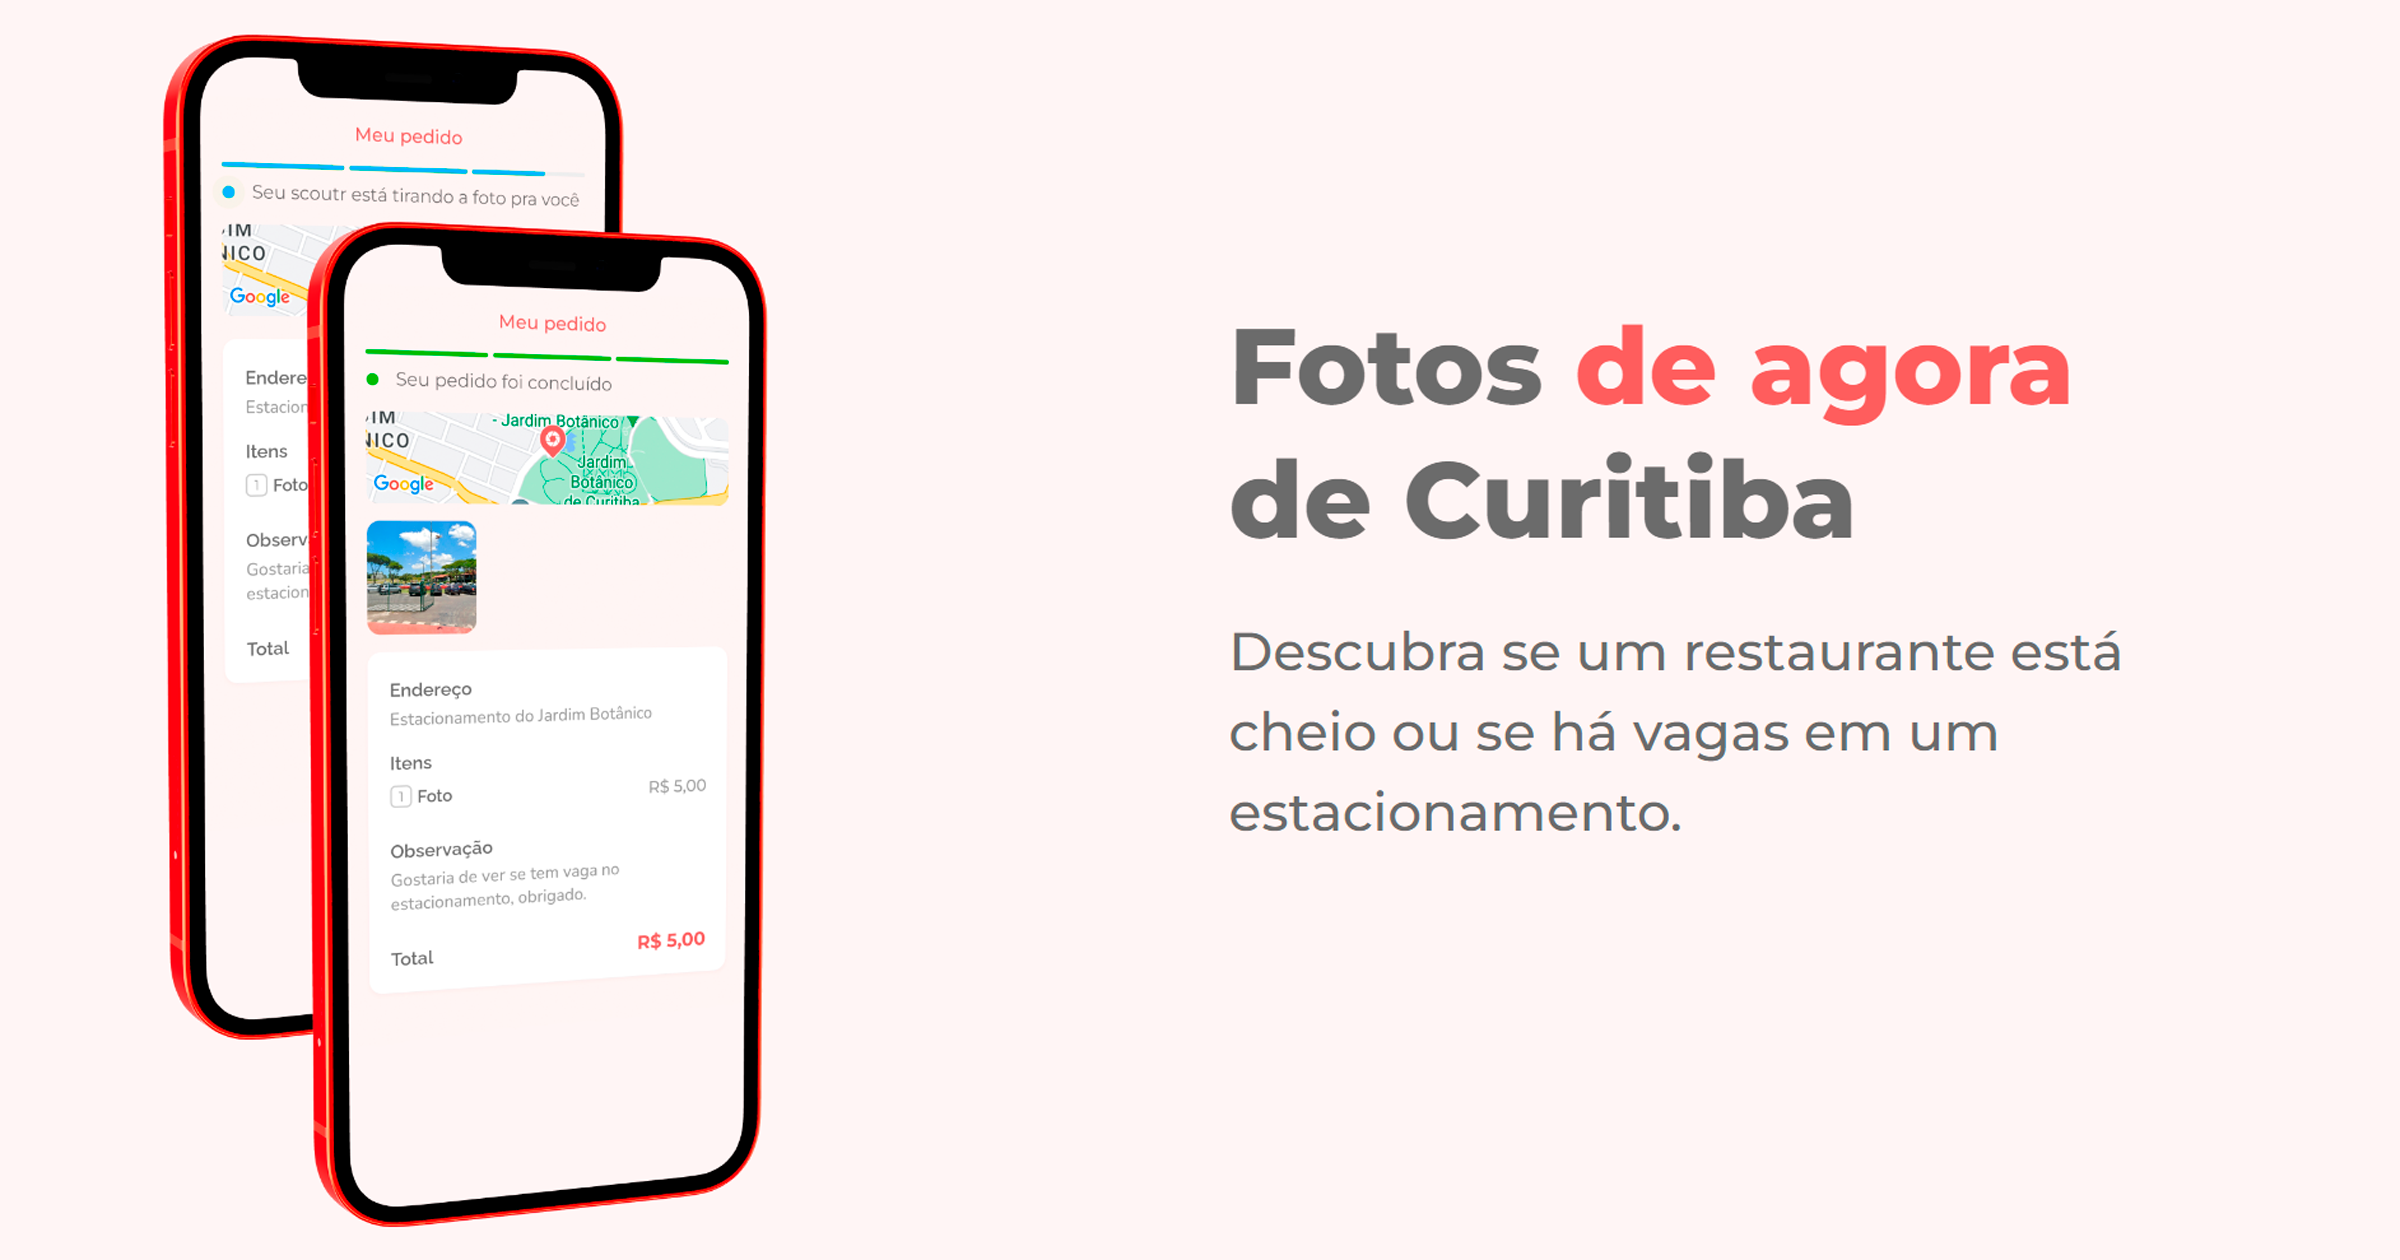
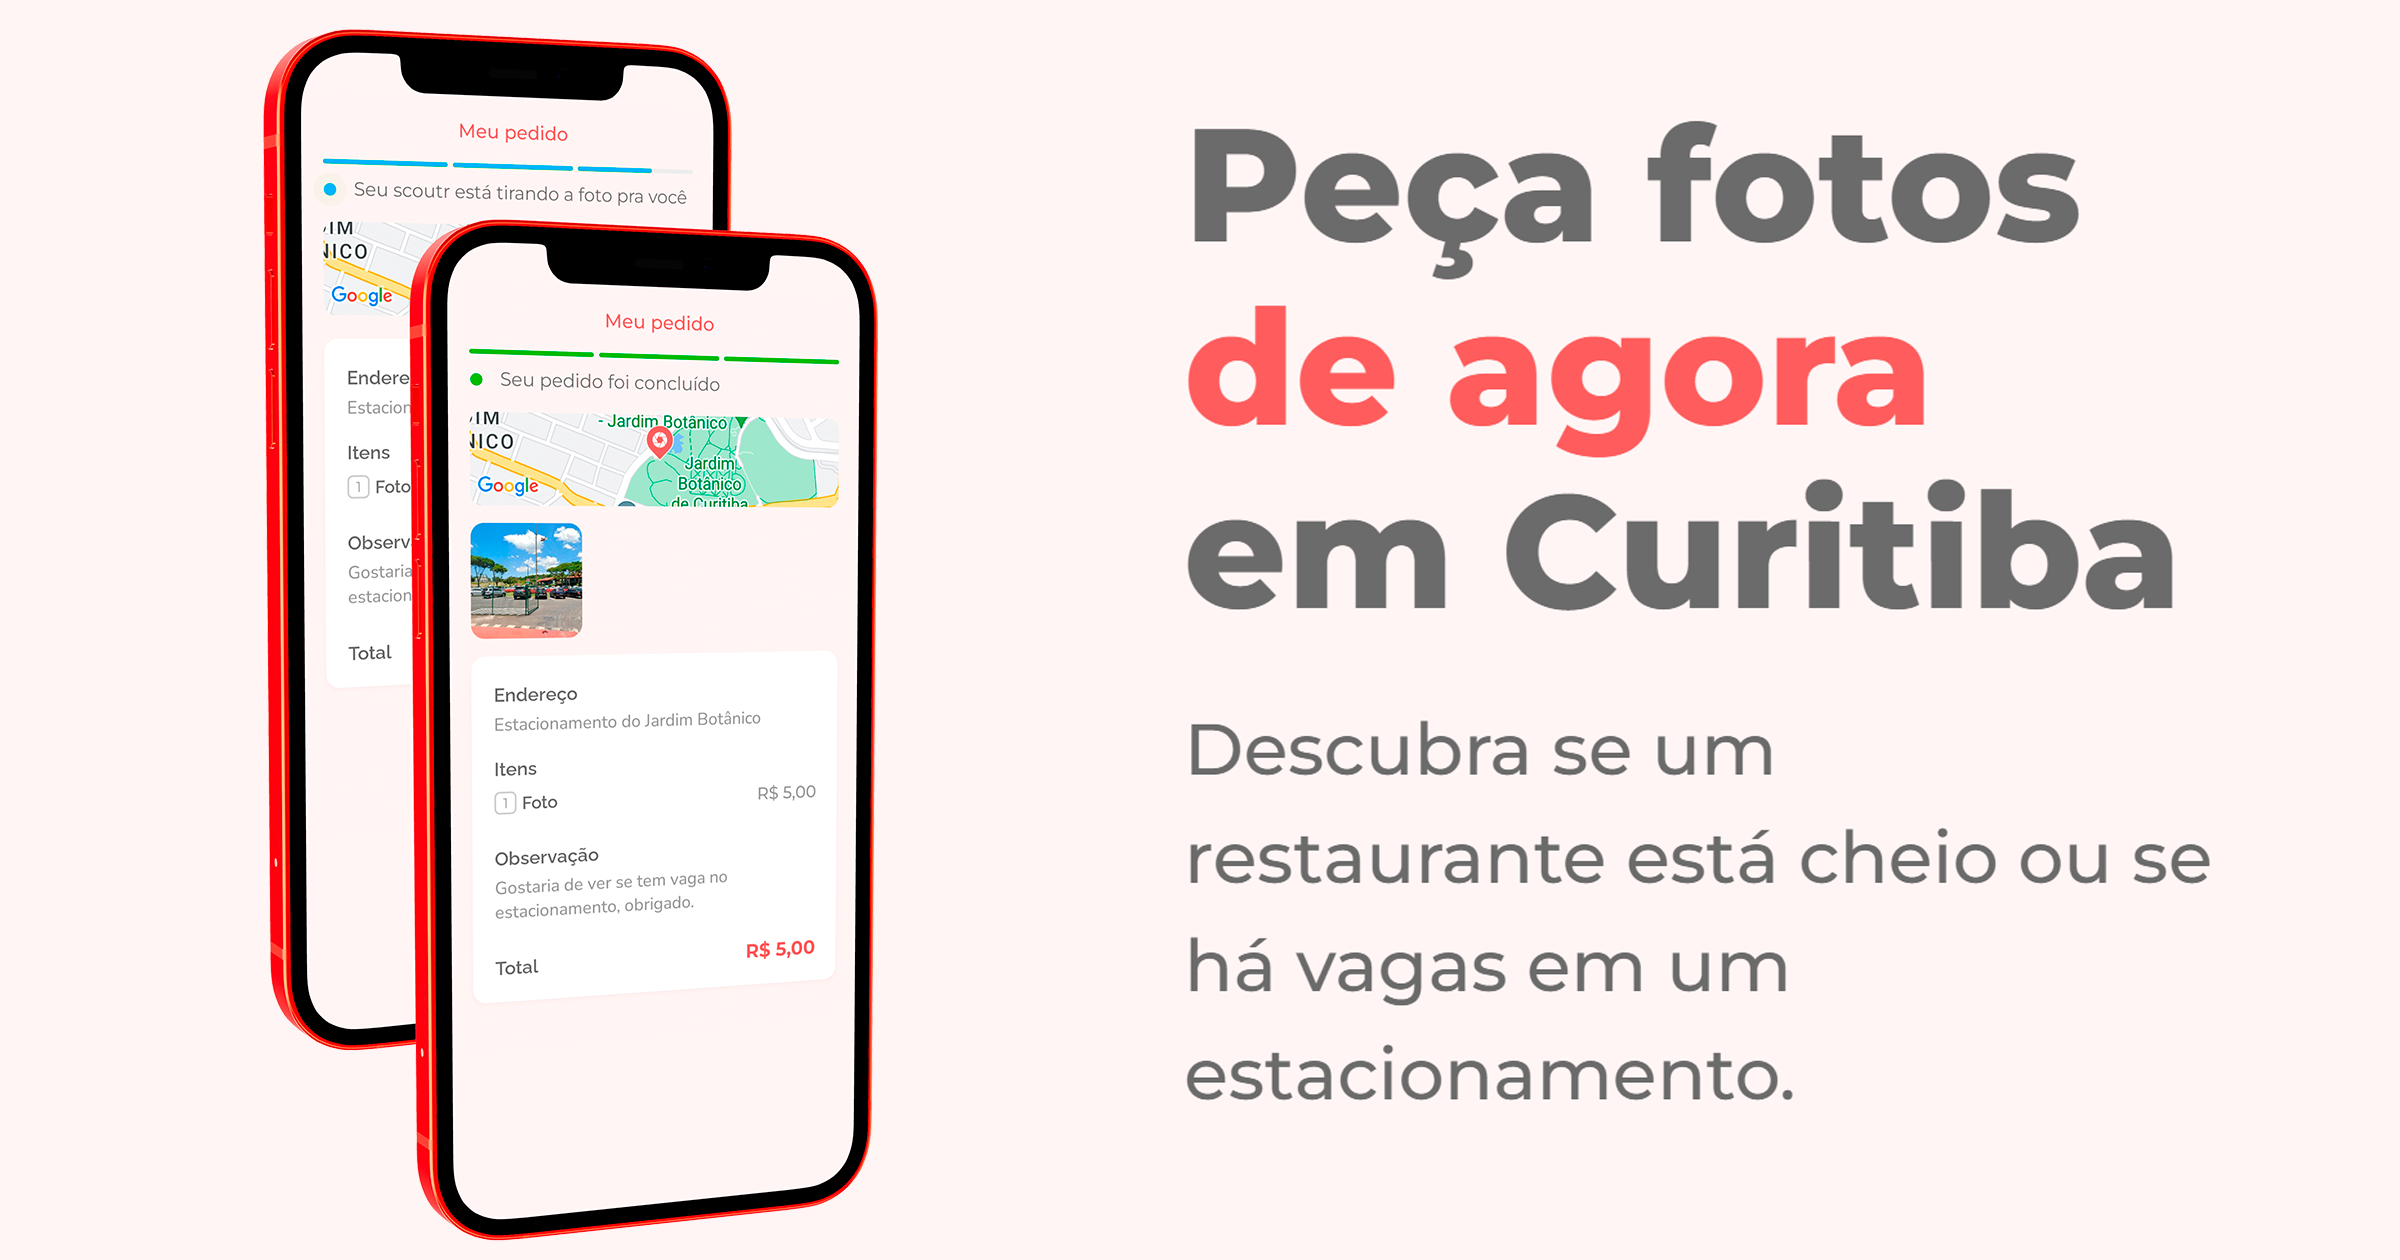
Update title and open graph data

diff --git a/index.html b/index.html
@@ -5,7 +5,7 @@
     <meta charset="UTF-8" />
     <meta name="viewport" content="width=device-width, initial-scale=1.0" />
 
-    <meta property="og:title" content="Scoutr - Fotos de agora de Curitiba" />
+    <meta property="og:title" content="Scoutr - Fotos de agora em Curitiba" />
     <meta
       property="og:description"
       content="Peça fotos de agora de Curitiba. Descubra se um restaurante está cheio ou se há vagas em um estacionamento."
@@ -18,7 +18,7 @@
     <meta property="og:type" content="website" />
     <meta property="fb:app_id" content="1963302947423691" />
 
-    <title>Scoutr - Fotos de agora de Curitiba</title>
+    <title>Scoutr - Fotos de agora em Curitiba</title>
     <link rel="preconnect" href="https://fonts.googleapis.com" />
     <link rel="preconnect" href="https://fonts.gstatic.com" crossorigin />
     <link
